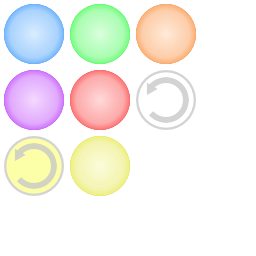
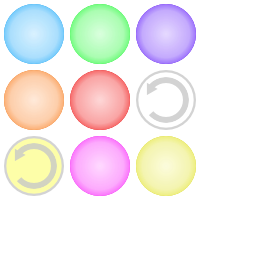
Added some new colors. Refactored collision code.

Changed region(s): [[0.25, 0.5312, 0.7812, 0.7812], [0.5312, 0.0, 0.7812, 0.25], [0.0, 0.25, 0.25, 0.5312]]

diff --git a/CharmQuark/GameplayLayer.m b/CharmQuark/GameplayLayer.m
@@ -26,9 +26,6 @@ static CGPoint scorePosition;
 
 @end
 
-#pragma mark -
-#pragma mark C Functions
-
 static void postStepRemoveParticle(cpSpace *space, cpShape *shape, GameplayLayer *self) {
     // You have these parameters reversed?
     Particle *particle = shape->data;
@@ -48,55 +45,7 @@ static void scheduleForRemoval(cpShape *shape, GameplayLayer *self) {
     cpSpaceAddPostStepCallback(self.space, (cpPostStepFunc)postStepRemoveParticle, shape, self);
 }
 
-static int collisionBegin(cpArbiter *arb, struct cpSpace *space, GameplayLayer *self)
-{
-    // Check for chain, if found use cpSpaceAddPostStepCallback to remove and score.
-    CP_ARBITER_GET_SHAPES(arb, a, b);
-    
-    Particle *p1 = a->data;
-    Particle *p2 = b->data;
-    
-    if (p1.particleColor == p2.particleColor) {
-        // Link particle objects.
-        [p1 addMatchingParticle:p2];
-        [p2 addMatchingParticle:p1];
-        
-        // Count chain
-        NSMutableSet *matchedParticles = [NSMutableSet setWithCapacity:kMinMatchSize];
-        [p1 addMatchingParticlesToSet:matchedParticles];
-        if ([matchedParticles count] >= kMinMatchSize) {
-            [self scoreParticles:matchedParticles];
-        }
-    }
-    
-    return true;
-}
 
-static int collisionPreSolve(cpArbiter *arb, cpSpace *space, GameplayLayer *self)
-{
-    // Doing nothing here.
-    return true;
-}
-
-static void collisionPostSolve(cpArbiter *arb, cpSpace *space, GameplayLayer *self)
-{
-    // Doing nothing here.
-}
-
-void collisionSeparate(cpArbiter *arb, cpSpace *space, GameplayLayer *self)
-{
-    // Unlink particle objects.
-    CP_ARBITER_GET_SHAPES(arb, a, b);
-    
-    Particle *p1 = a->data;
-    Particle *p2 = b->data;
-    
-    if (p1.particleColor == p2.particleColor) {
-        // Link particle objects.
-        [p1 removeMatchingParticle:p2];
-        [p2 removeMatchingParticle:p1];
-    }
-}
 
 // This function synchronizes the body with the sprite.
 static void eachShape(cpShape *ptr, void* unused) {
@@ -114,8 +63,83 @@ static void eachShape(cpShape *ptr, void* unused) {
 static void gameVelocityFunc(cpBody *body, cpVect gravity, cpFloat damping, cpFloat dt)
 {
 	cpVect p = cpBodyGetPos(body);
-    cpVect g = cpvmult(p, -200 * cpvlength(p) / (1.5f * screenCenter.y));
+    //cpVect g = cpvmult(p, -200 * cpvlength(p) / (1.5f * screenCenter.y));
+    cpVect g = cpvmult(cpvnormalize(p), -1500);
 	cpBodyUpdateVelocity(body, g, damping, dt);
+}
+
+#pragma mark Collision Handlers
+
+static int collisionBegin(cpArbiter *arb, struct cpSpace *space, GameplayLayer *self)
+{
+    // Keep track of what particles this particle is touching.
+    CP_ARBITER_GET_SHAPES(arb, a, b);
+    
+    Particle *p1 = a->data;
+    Particle *p2 = b->data;
+    
+    if (p1.particleColor == p2.particleColor) {
+        // Link particle objects.
+        [p1 addMatchingParticle:p2];
+        [p2 addMatchingParticle:p1];
+            
+//            // Count chain
+//            NSMutableSet *matchedParticles = [NSMutableSet setWithCapacity:kMinMatchSize];
+//            [p1 addMatchingParticlesToSet:matchedParticles];
+//            if ([matchedParticles count] >= kMinMatchSize) {
+//                [self scoreParticles:matchedParticles];
+//            }
+    }
+    
+    return true;
+}
+
+static int collisionPreSolve(cpArbiter *arb, cpSpace *space, GameplayLayer *self)
+{
+    // Doing nothing here.
+    return true;
+}
+
+static void collisionPostSolve(cpArbiter *arb, cpSpace *space, GameplayLayer *self)
+{
+    if (cpArbiterIsFirstContact(arb)) {
+        // TODO: Play sound effects here.
+    } else {
+        // Don't do this on the first collision.
+        CP_ARBITER_GET_SHAPES(arb, a, b);
+        
+        Particle *p1 = a->data;
+        Particle *p2 = b->data;
+        
+        if (p1.particleColor == p2.particleColor) {
+            if (cpvlength(cpvsub(a->body->v, b->body->v)) < 0.5) {
+                // Should already be linked, so...
+                
+                // Count chain
+                NSMutableSet *matchedParticles = [NSMutableSet setWithCapacity:kMinMatchSize];
+                [p1 addMatchingParticlesToSet:matchedParticles];
+                if ([matchedParticles count] >= kMinMatchSize) {
+                    [self scoreParticles:matchedParticles];
+                    cpArbiterIgnore(arb);  // Stop calling this, we're done.
+                }
+            }
+        }
+    } 
+}
+
+void collisionSeparate(cpArbiter *arb, cpSpace *space, GameplayLayer *self)
+{
+    // Unlink particle objects.
+    CP_ARBITER_GET_SHAPES(arb, a, b);
+    
+    Particle *p1 = a->data;
+    Particle *p2 = b->data;
+    
+    if (p1.particleColor == p2.particleColor) {
+        // Link particle objects.
+        [p1 removeMatchingParticle:p2];
+        [p2 removeMatchingParticle:p1];
+    }
 }
 
 @implementation GameplayLayer
@@ -144,10 +168,11 @@ static void gameVelocityFunc(cpBody *body, cpVect gravity, cpFloat damping, cpFl
 }
 
 -(Particle*)randomParticle {
-    Particle *sprite = nil;
-    ParticleColors color = rand() % 6;
-    sprite = [Particle particleWithColor:color]; 
-    return sprite;
+    Particle *particle = nil;
+    ParticleColors color = rand() % 7;
+    particle = [Particle particleWithColor:color]; 
+    //particle = [Particle particleWithColor:kParticleGreen]; 
+    return particle;
 }
 
 -(void) addParticle:(Particle*)particle atPosition:(CGPoint)position
@@ -159,12 +184,6 @@ static void gameVelocityFunc(cpBody *body, cpVect gravity, cpFloat damping, cpFl
 	particle.position = position;
     CCSpriteBatchNode *batch = (CCSpriteBatchNode*) [centerNode getChildByTag:kTagBatchNode];
     [batch addChild: particle];
-
-    // Add motion streak.
-    //CCMotionStreak *streak = [CCMotionStreak streakWithFade:0.5 minSeg:3 width:2 color:ccGREEN texture: nil];
-    //sprite.streak = streak;
-    //streak.position = position;
-    //[viewLayer addChild:streak];
 
 	// Create physics body.
     cpBody *body = cpBodyNew(kParticleMass, cpMomentForCircle(1.0f, 0, 15.0f, CGPointZero));
@@ -206,7 +225,7 @@ static void gameVelocityFunc(cpBody *body, cpVect gravity, cpFloat damping, cpFl
         points *= multiplier;
     }
     score += points;
-    [scoreLabel setString:[[NSString alloc] initWithFormat:@"%d", score]];
+    [scoreLabel setString:[[[NSString alloc] initWithFormat:@"%d", score] autorelease]];
 }
 
 -(void) step: (ccTime)dt {

diff --git a/CharmQuark/Particle.m b/CharmQuark/Particle.m
@@ -55,8 +55,11 @@
         case kParticleBlue:
             self = [super initWithSpriteFrameName:@"Blue.png"];
             break;
-        case kParticlePurple:
-            self = [super initWithSpriteFrameName:@"Purple.png"];
+        case kParticleIndigo:
+            self = [super initWithSpriteFrameName:@"Indigo.png"];
+            break;
+        case kParticleViolet:
+            self = [super initWithSpriteFrameName:@"Violet.png"];
             break;
         default:
             break;
@@ -66,6 +69,13 @@
         self.streak = nil;
         self.matchedParticles = [[[NSMutableArray alloc] init] autorelease];
         self.shape = NULL;
+        
+        
+        // Add motion streak.
+        // CCMotionStreak can't be parented to batch node....  Sad.
+//        CCTexture2D *texture = nil; 
+//        self.streak = [CCMotionStreak streakWithFade:0.5 minSeg:3 width:2 color:ccWHITE texture: texture];
+//        [self addChild:streak];
     }
     return self;
 }

diff --git a/CharmQuark/GameplayLayer.h b/CharmQuark/GameplayLayer.h
@@ -12,13 +12,13 @@
 // Gameplay Constants
 #define kMinMatchSize           4
 #define kPointsPerMatch         100
-#define kRotationRate           1.4
+#define kRotationRate           1.0
 
 // Simulation Constants
 #define kSimulationRate         0.00833
 #define kParticleMass           5.0f
 #define kParticleFriction       0.0f
-#define kParticleElasticity     0.2f
+#define kParticleElasticity     0.3f
 #define kVelocityLimit          1500.0f
 #define kParticleDamping        0.1f
 #define kParticleCollisionType  1

diff --git a/CharmQuark/Particle.h b/CharmQuark/Particle.h
@@ -16,7 +16,8 @@ typedef enum {
     kParticleYellow,
     kParticleGreen,
     kParticleBlue,
-    kParticlePurple,
+    kParticleIndigo,
+    kParticleViolet,
 } ParticleColors;
 
 @interface Particle : CCSprite {
